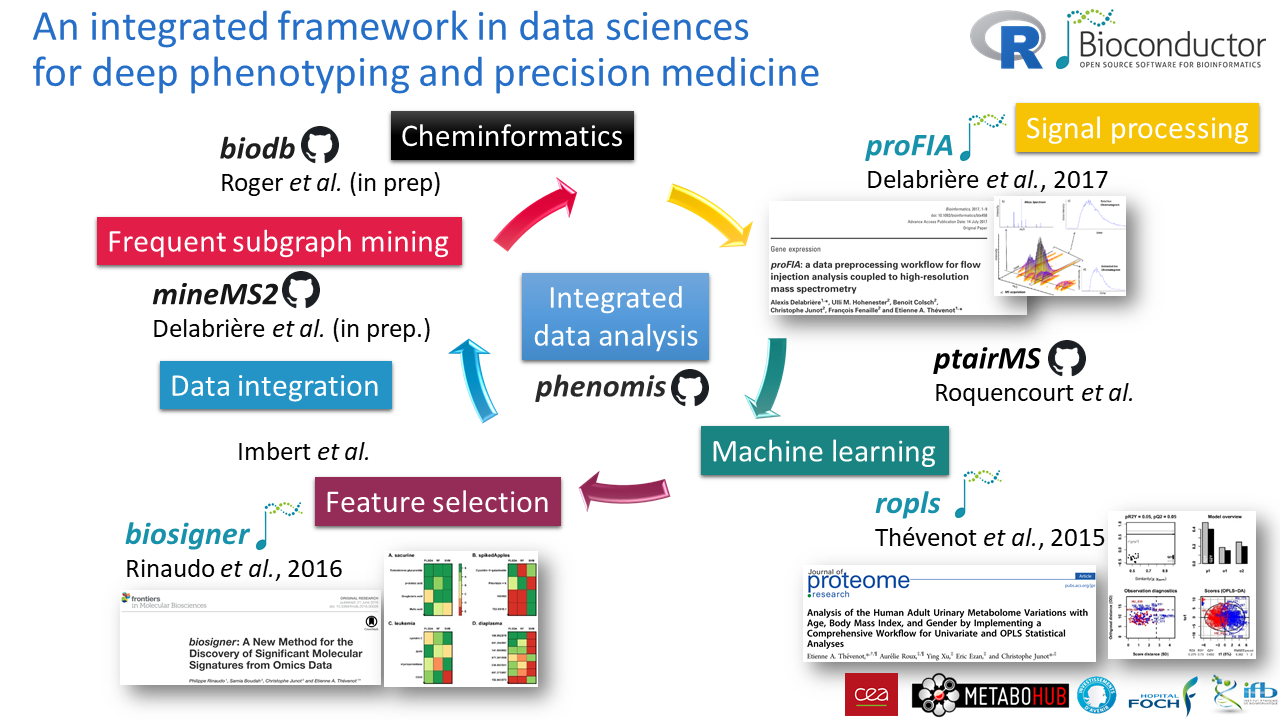
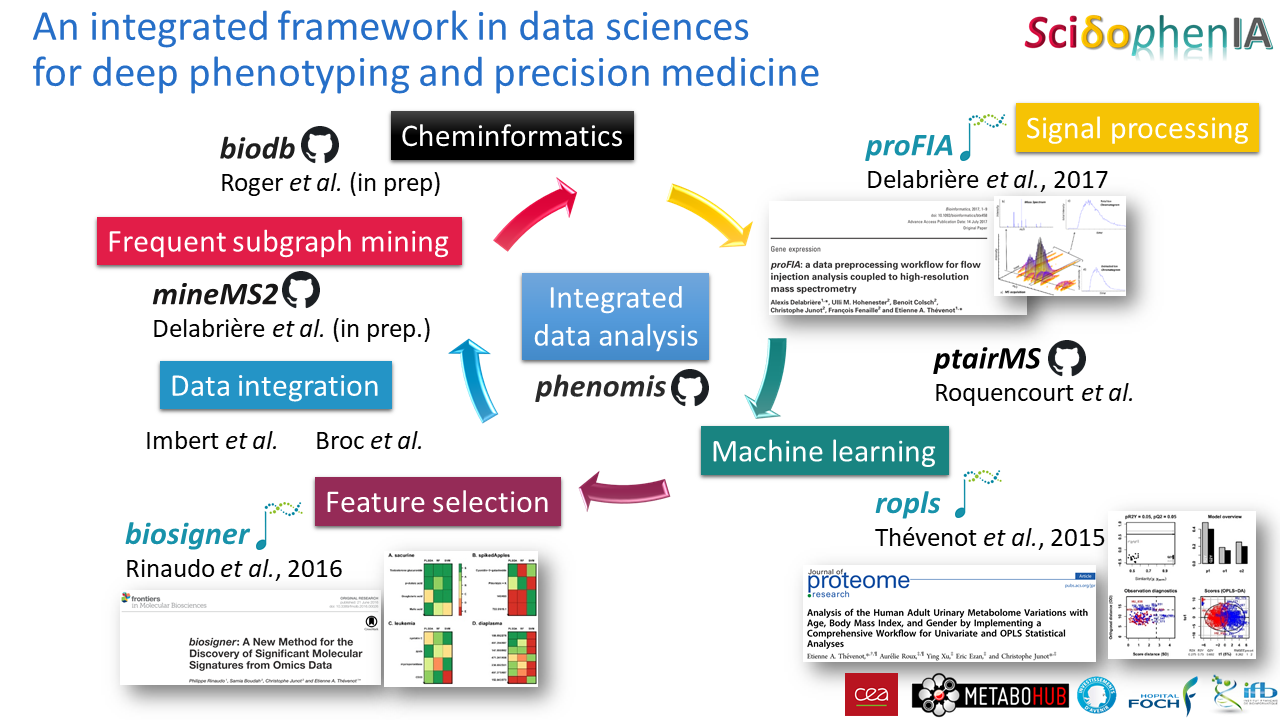
index update

Changed region(s): [[0.75, 0.0, 1.0, 0.0917], [0.125, 0.5806, 0.3125, 0.6417]]

diff --git a/index.html b/index.html
@@ -84,8 +84,8 @@ bioinformatics for life scientists</a> course, Hinxton, UK (13th-17th February 2
 
 <div id="content">
 <h2></h2>
-
-<p><img src="images/SciDoPhenIA.png" width="150" height="75" class="imgright" />Wellcome to the website from the <strong>Data Sciences for Deep Phenotyping and Precision Medicine group (SciDoPhenIA)</strong></p>
+<!-- <img src="images/SciDoPhenIA.png" width="150" height="75" class="imgright" /> -->
+<p>Wellcome to the website from the <strong>Data Sciences for Deep Phenotyping and Precision Medicine group (SciDoPhenIA)</strong></p>
 
 <p style="text-align:center"><img alt="Data Sciences for Deep Phenotyping and Precision Medicine group" src="images/data_sciences_for_deep_phenotyping_and_precision_medicine_thevenot_cea.png"
 width="660" height="372" /></p>
